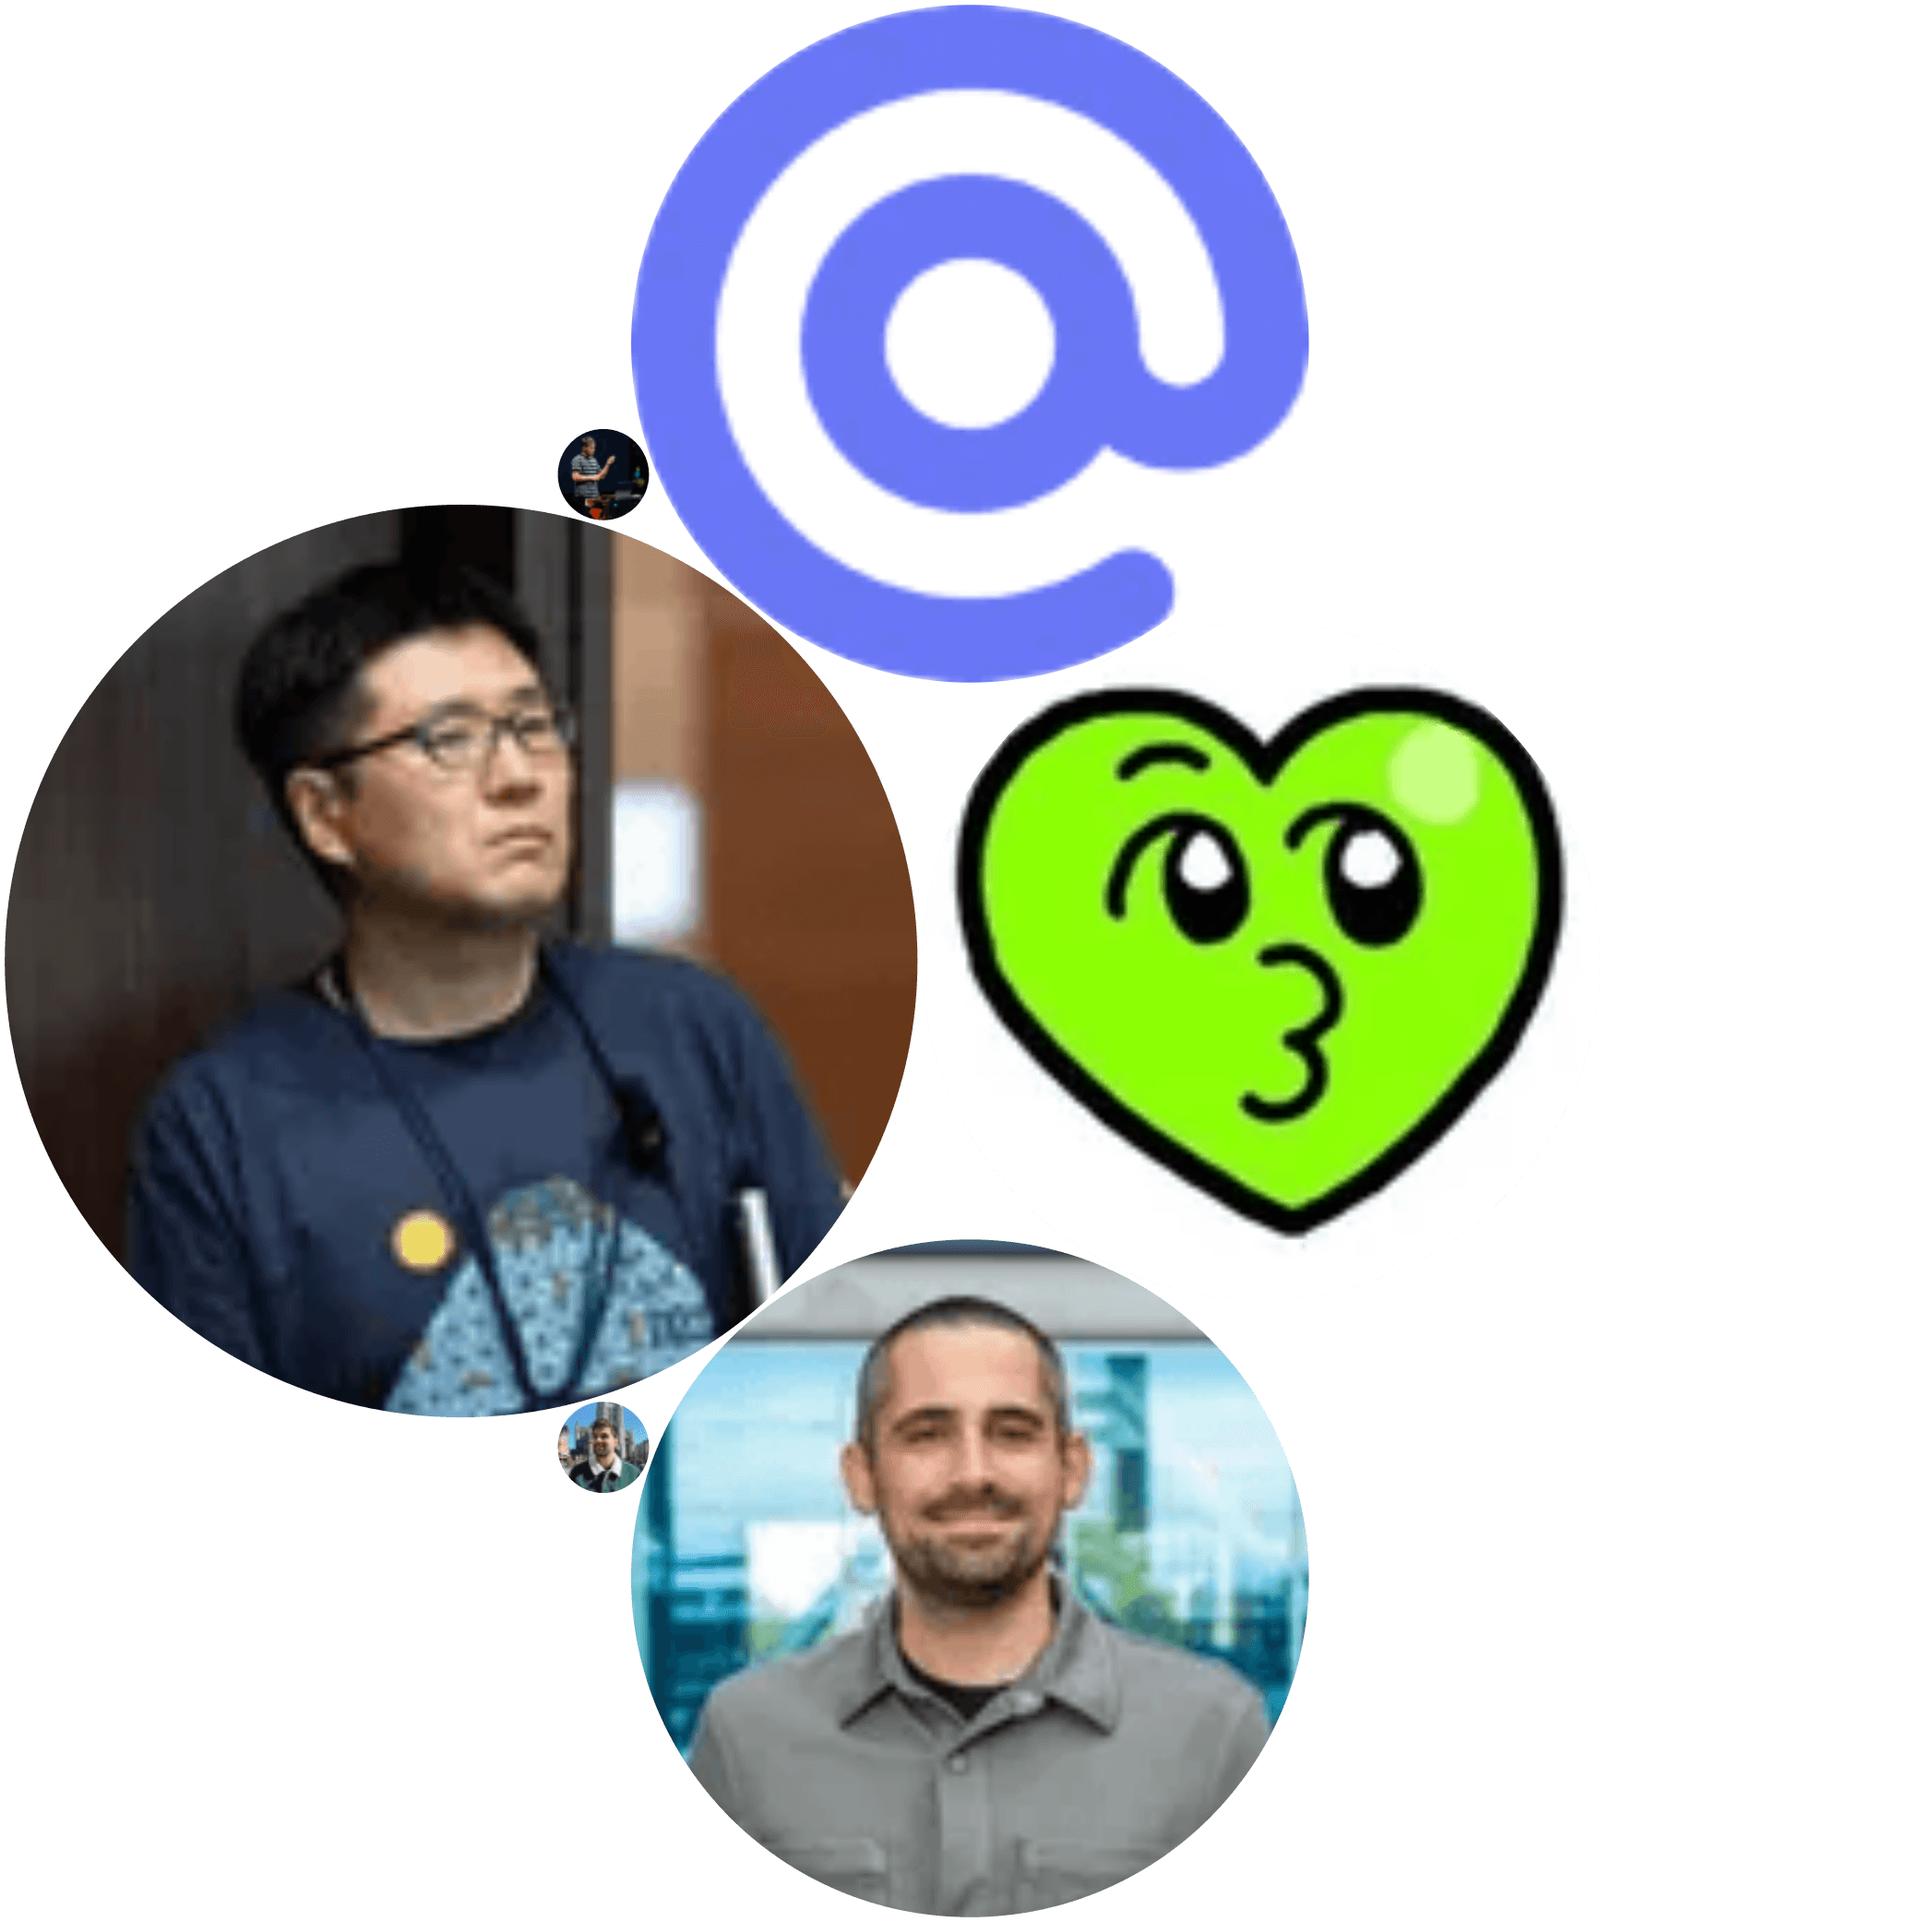
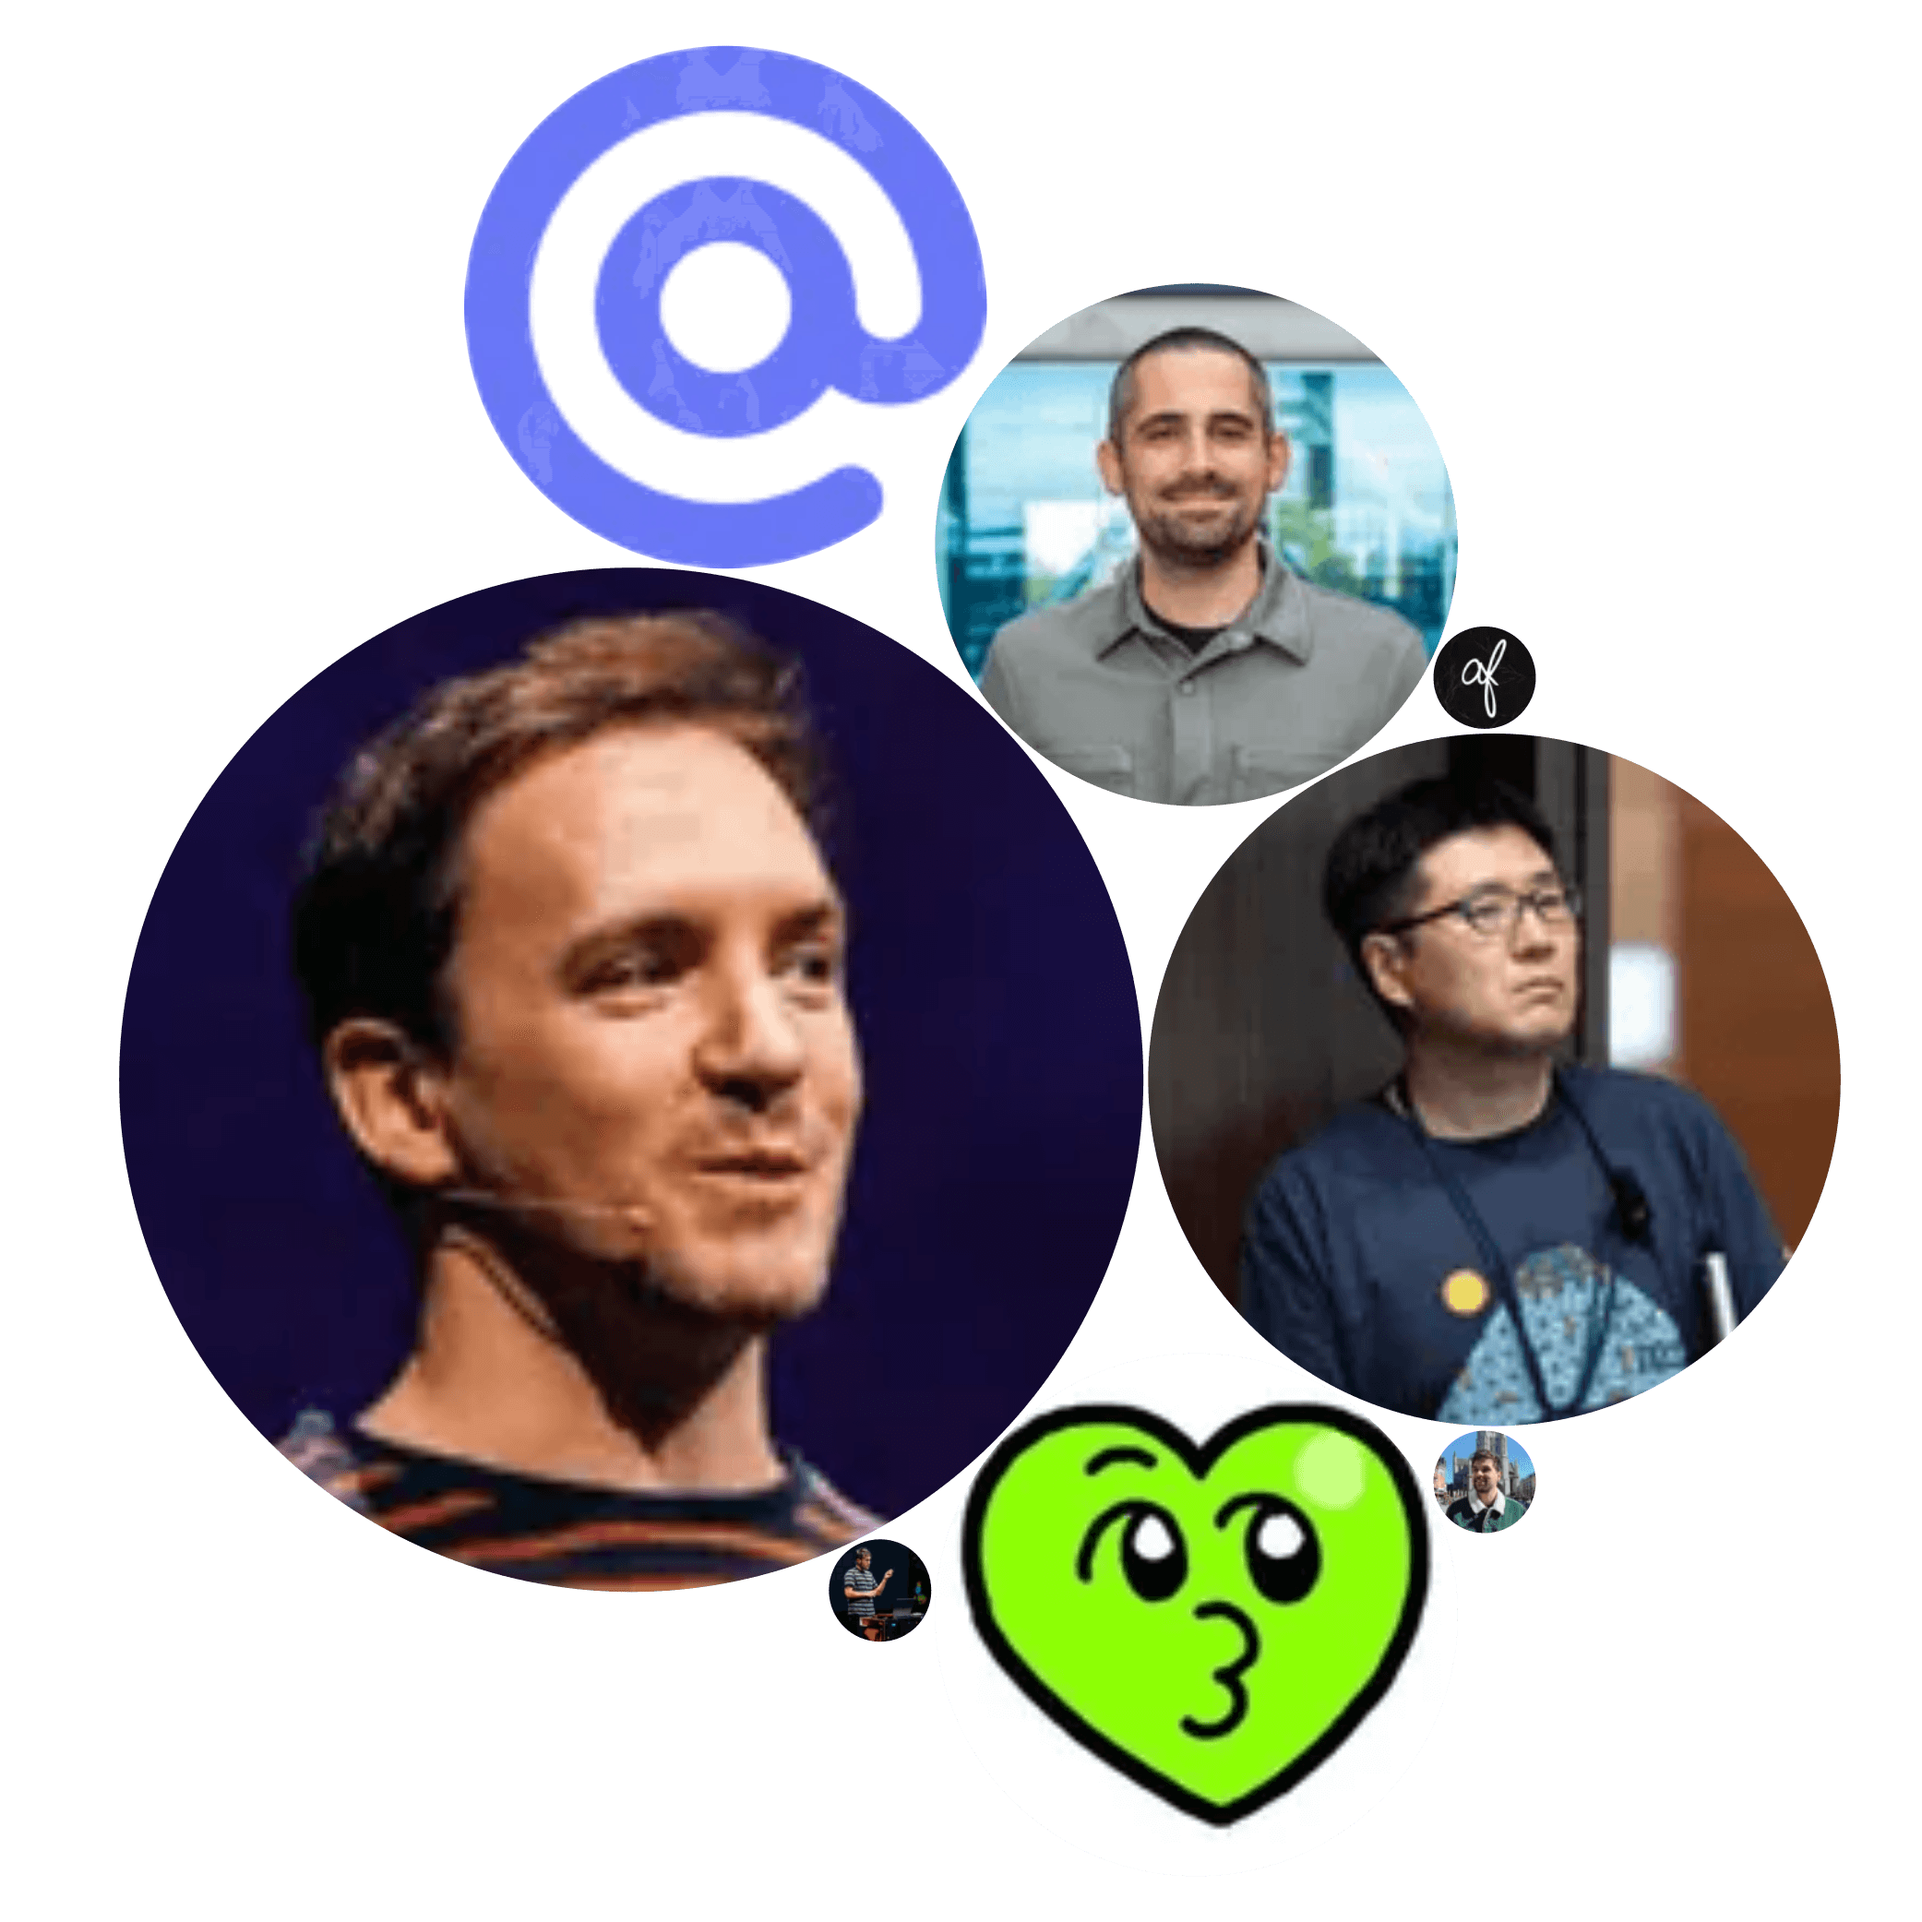
chore: tweak config and update sponsors

diff --git a/sponsorkit.config.ts b/sponsorkit.config.ts
@@ -1,52 +1,67 @@
-import { defineConfig, presets } from "sponsorkit";
+import { defineConfig, tierPresets } from "sponsorkit";
 import fs from "fs/promises";
-
 
 export default defineConfig({
   github: {
     login: "bobbiegoede",
     type: "user",
   },
+  opencollective: {
+    slug: "bobbiegoede",
+    type: "user",
+  },
+  sponsorsAutoMerge: true,
   tiers: [
     {
       title: "Past Sponsors",
       monthlyDollars: -1,
-      preset: presets.small,
-
+      preset: tierPresets.small,
     },
     {
       title: "Backers",
-      preset: presets.medium,
+      preset: {
+        ...tierPresets.medium,
+        boxWidth: 80,
+        avatar: {
+          size: 40,
+        },
+      },
     },
     {
       title: "Sponsors",
       monthlyDollars: 25,
-      preset: presets.medium,
+      preset: {
+        ...tierPresets.medium,
+        boxWidth: 100,
+        avatar: {
+          size: 60,
+        },
+      },
     },
     {
       title: "Super Sponsors",
       monthlyDollars: 50,
-      preset: presets.large,
+      preset: tierPresets.large,
     },
     {
       title: "Bronze Sponsors",
       monthlyDollars: 100,
-      preset: presets.large,
+      preset: tierPresets.large,
     },
     {
       title: "Silver Sponsors",
       monthlyDollars: 250,
-      preset: presets.large,
+      preset: tierPresets.large,
     },
     {
       title: "Gold Sponsors",
       monthlyDollars: 500,
-      preset: presets.large,
+      preset: tierPresets.large,
     },
     {
       title: "Diamond Sponsors",
       monthlyDollars: 1000,
-      preset: presets.xl,
+      preset: tierPresets.xl,
     },
     // {
     //   title: 'Special Sponsor',
